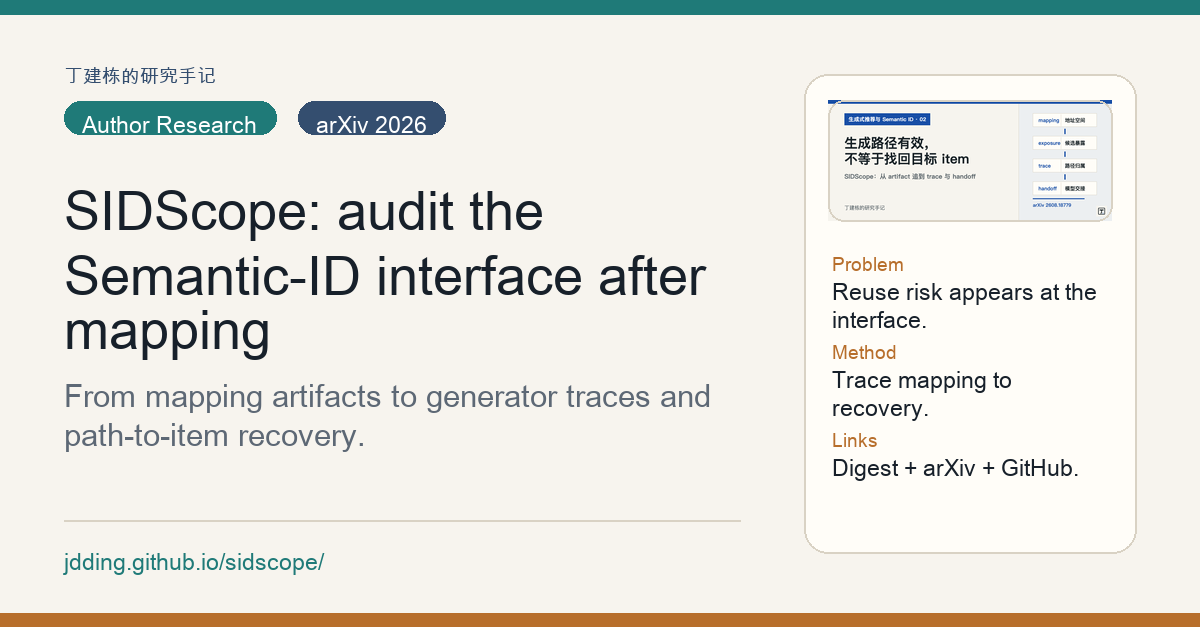
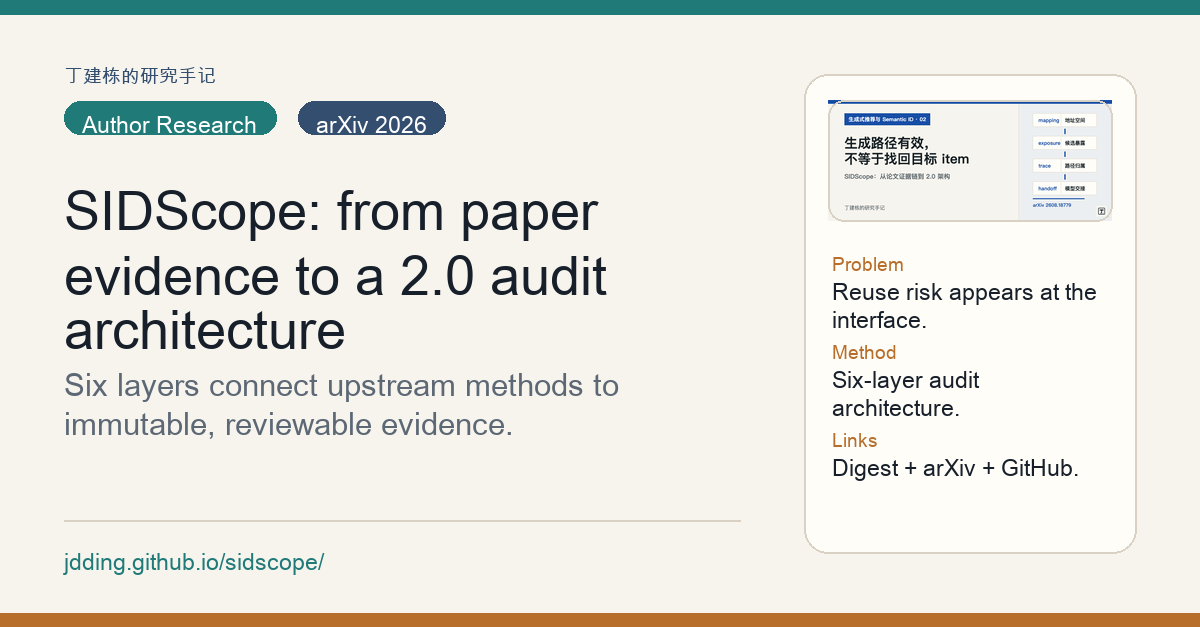
Update publication links and research intern notice

diff --git a/index.md b/index.md
@@ -165,7 +165,7 @@ schema:
         <div class="contact-intro">
           <span class="section-label">Contact</span>
           <h2>Collaboration and exchange</h2>
-          <p>I welcome focused conversations around recommender systems, LLM agents, data mining, shared benchmarks, and applied research problems.</p>
+          <p>I welcome focused conversations around recommender systems, LLM agents, data mining, shared benchmarks, and applied research problems. I am also recruiting student research interns; please get in touch if your interests align with these areas.</p>
           <a class="text-link" href="/collaborations/">Collaboration record</a>
         </div>
         <div class="contact-links contact-links-primary">
